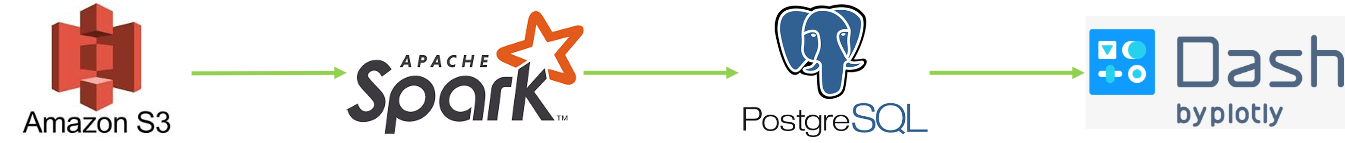
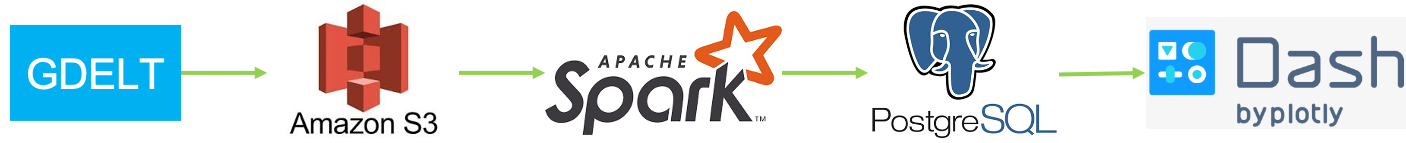
Update the readme
Update the readme

diff --git a/readme_insgiht.md b/readme_insgiht.md
@@ -1,0 +1,67 @@
+# News Leaders by Liangchun Xu
+
+## Table of Contents
+1. [Problem](README.md#problem)
+1. [Datasets](README.md#datasets)
+1. [Data Pipeline](README.md#data-pipeline)
+1. [Running Instructions](README.md#running-instructions)
+1. [Demo](README.md#demo)
+1. [Files in Repo](README.md#files-in-repo)
+1. [Engineering Challenge](README.md#engineering-challenge)
+1. [Conclusion](README.md#conclusion)
+1. [Contact Information](README.md#contact-information)
+
+## Problem
+
+Numerous social events are reported everyday on Internet, but many of them are covered by the same article source. At Insight, I built a tool to quickly identify the top 10 cited news article links (News Leaders) in one day. It can help decision makers to assess the credibility of the most popular news sources.
+
+## Datasets
+The GDELT Event database v2.0 and the GDELT Mentions table, available on GDELT's [official website](http://data.gdeltproject.org/gdeltv2). 
+
+## Data Pipeline
+
+![Pipeline](img/datapipeline.png)
+
+The data pipeline is illustrated above. First the GDELT data is read into Amazon S3. Then Apache Spark reads the data into dataframes and count the number of each news link is distributely computed on 4 cluster nodes. The final resulting dataframe is collected and sent into PostgreSQL for storage. The final result is shown via Dash.
+
+## Running Instructions
+* Spin up an EC2 instance (or cluster). 
+* Make sure Spark is installed on all the instances.
+* Make sure that all the python and system requirements (in requirements.txt) are installed.
+* Clone this repo to the master EC2 node. 
+* Go to News_leader/web_application/ in your terminal.
+* Type "python webapp.py".
+* Go to the website that is specified. 
+* Enter the information as prompted. 
+* Hit Submit. 
+
+## Demo
+
+[Here]() you can see a video of my application in the works. 
+
+In the first part, you can see an example of data that is stored in an S3 Bucket. Then you see the front end, where the information is inputted. Then the program is run and we return to the S3 Bucket to see that our information is now there. Once we look at it, we see that the columns that were specified have been encrypted. 
+
+[Here]() you can watch a video of my presentation where I discuss this project, along with my [slides](). 
+
+## Files in Repo 
+
+### datapipeline.py
+
+#### description: 
+This file reads the S3 data into spark and computes the citations of each news link. The final result and two raw datasets are written into the PostgreSQL database.    
+
+### webapp.py
+
+#### description:
+This is a Dash frontend page, which makes queries and reads data from the PostgreSQL database to visualize the news leaders results various forms.
+
+## Engineering Challenge
+Spark performance bottleneck is met when I scaled the data size from single file to daily files. The execution time increases from 28 s to 12 min. The reading of large sets of scattering data files is the cause behind the scene. I solved the problem by combining the raw data files into one before Spark processing. It can significantly improve the performance. 
+
+## Conclusion
+
+News Leader is built to source the most cited news links on the Internet and hopefully answers the questions that where the events come from and help people assess the credibility of these most popular news stories.
+
+## Contact Information
+* LinkedIn: [Liangchun Xu](https://www.linkedin.com/in/liangchunxu/)
+* Email: maiar@outlook.com
